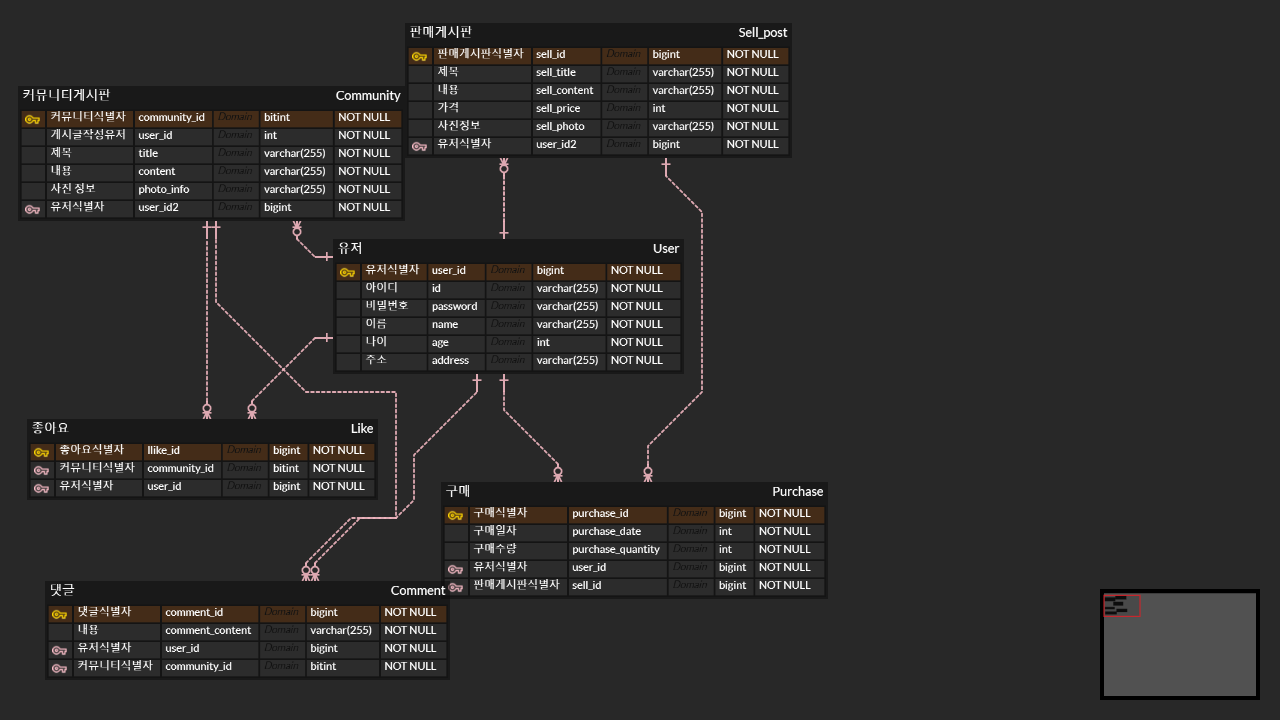
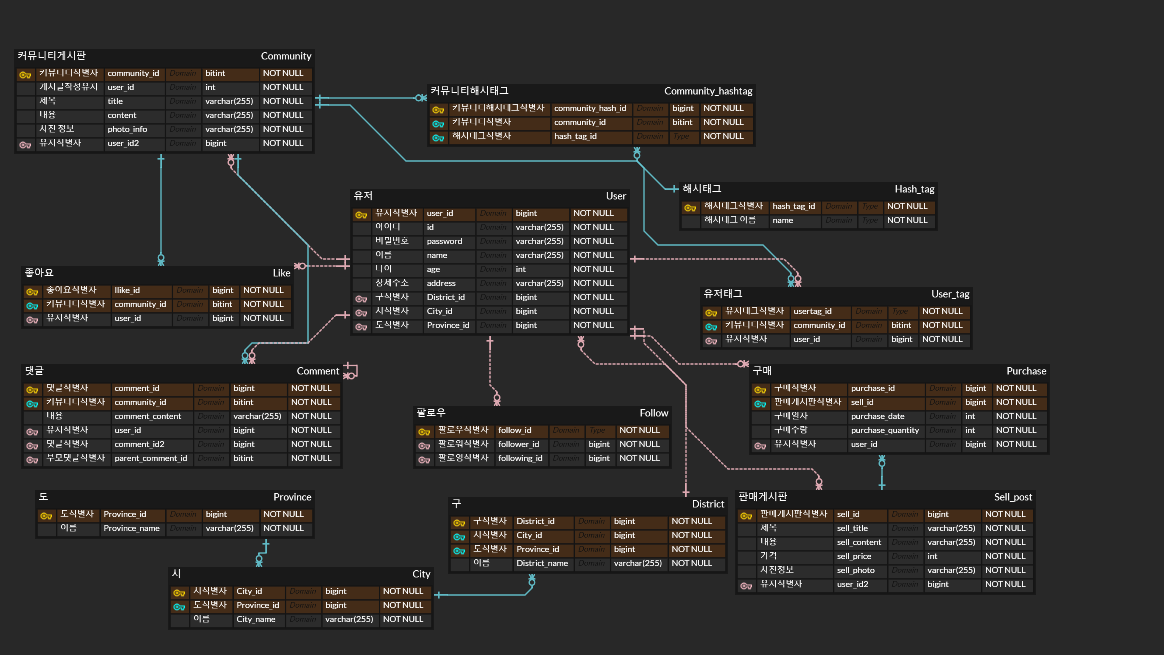
ERD 챌린지까지 구현

diff --git a/SellingCommunity_ERD/README.md b/SellingCommunity_ERD/README.md
@@ -3,3 +3,6 @@
 ### 페이지 링크: https://www.erdcloud.com/d/3avgGu2rg8dXTWEci
 
 ![ERD Diagram](./ERD.png)
+
+
+- 기본 기능 구현 + 챌린지까지 구현 완료
